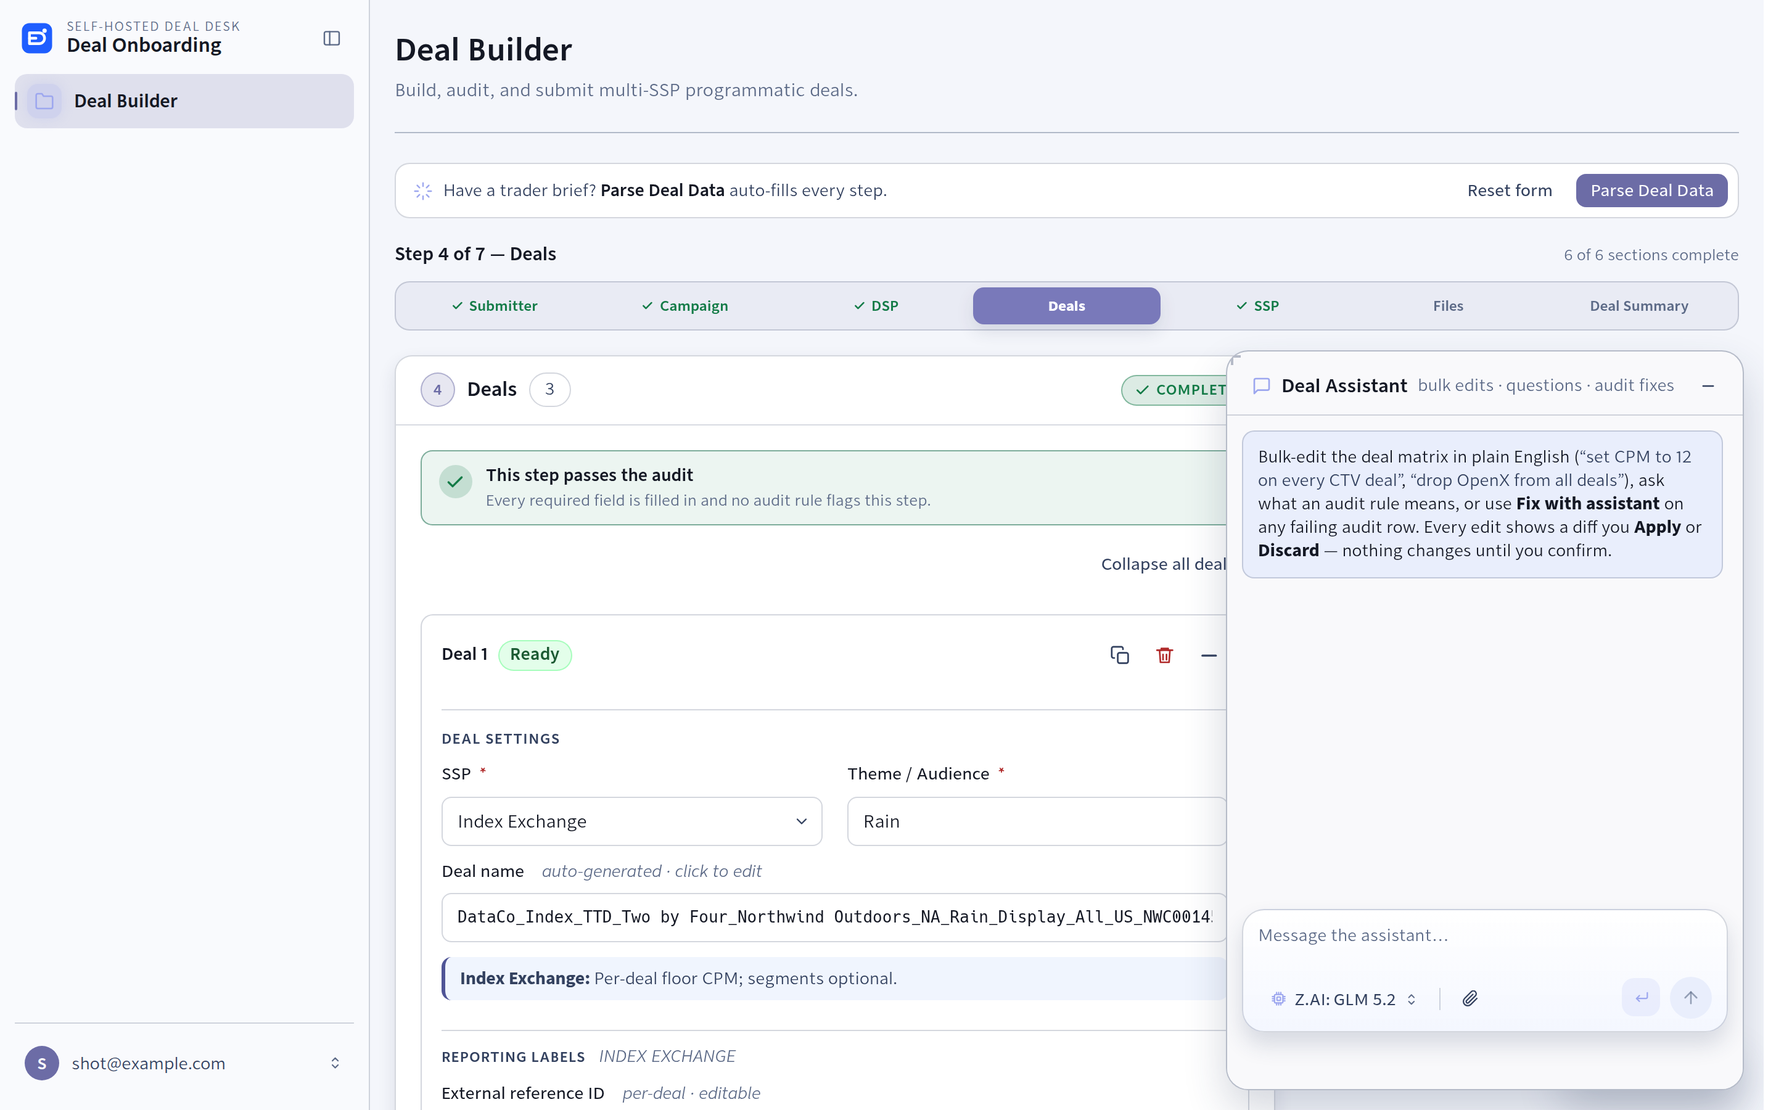
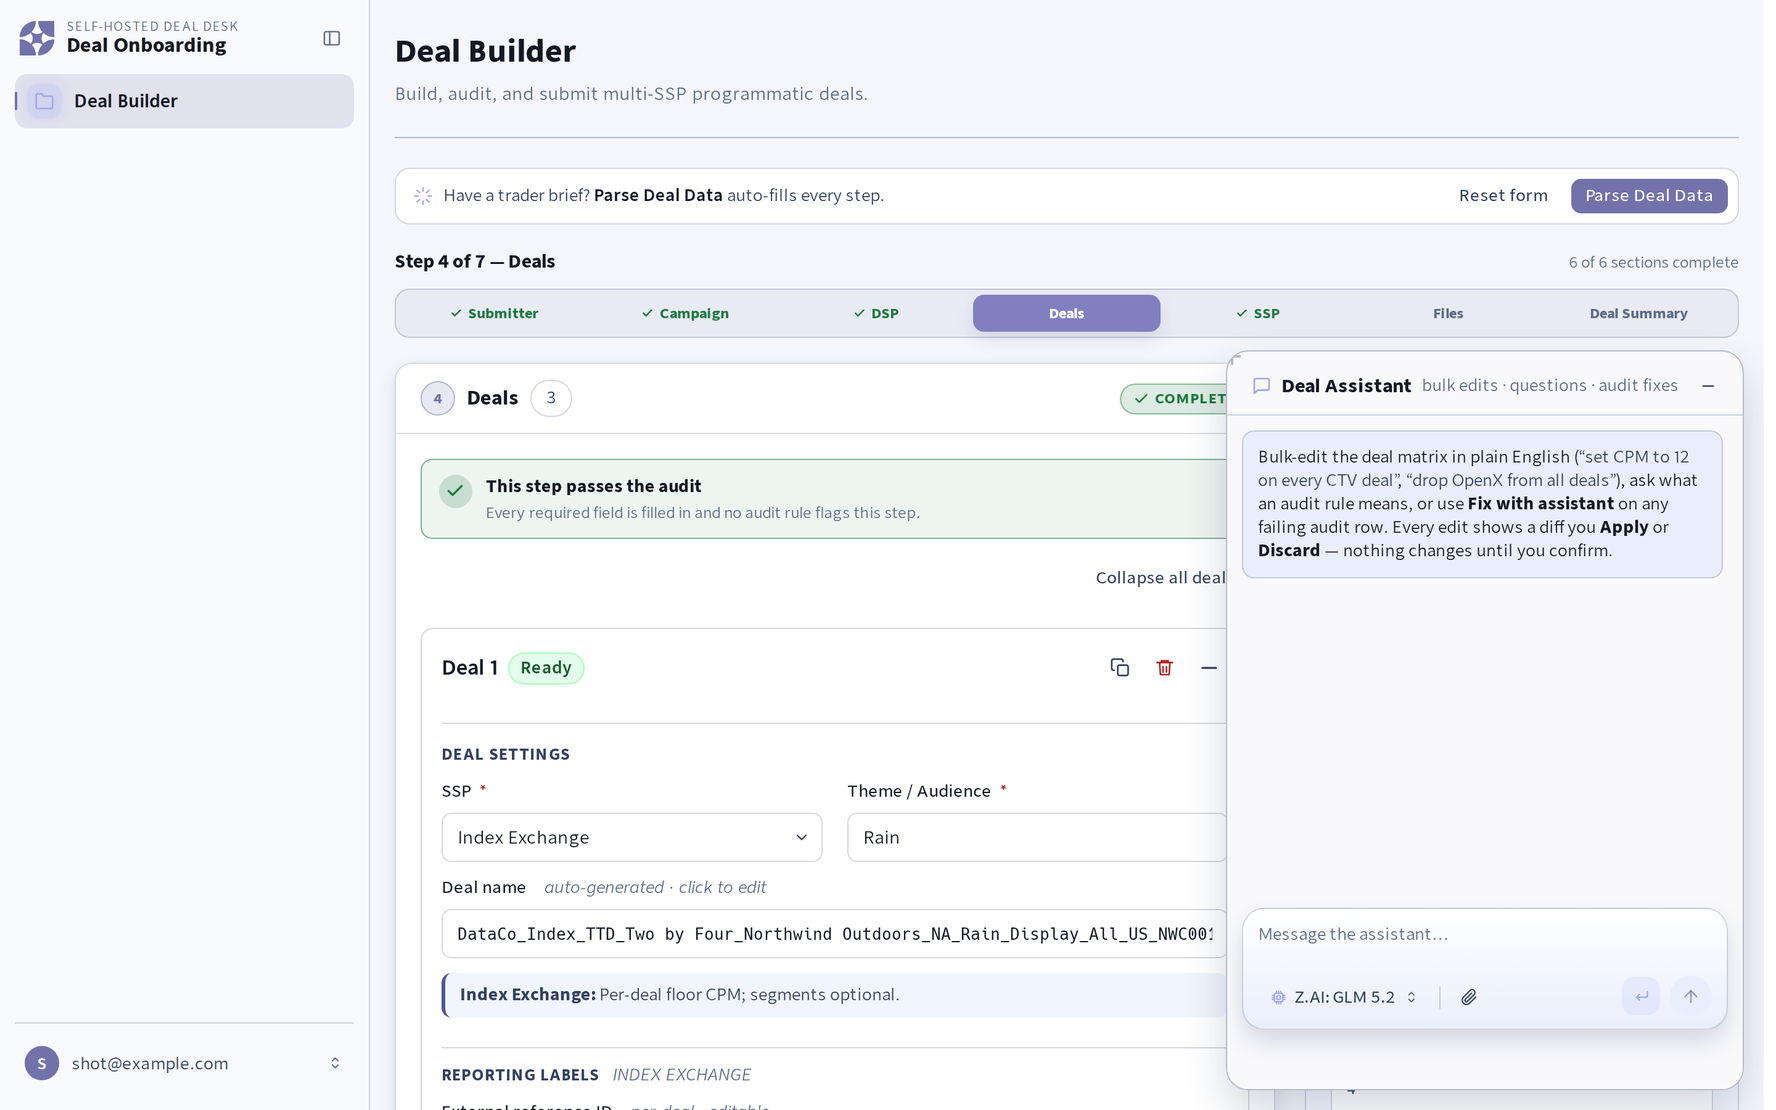
Carry the Elcano mark and the canonical Flag token sheet like the other products
The app shipped a blue generic mark as both favicon and header logo, and a
design-tokens.css that had drifted from Flag: a different primary, different
status colours, a smaller type scale, bold at 600 and no semibold. Every
other Elcano product vendors Flag's sheet byte-for-byte and puts the Elcano
mark in its app header beside the product name.

- Re-vendor design-tokens.css and fonts.css verbatim from Flag. The four
  product-only tokens (rail hover/active, composer surface/shadow) move to a
  PRODUCT TOKENS block at the top of app.css, derived from Flag tokens.
- Lay the static assets out as frontend/public/design-system/{icons,logos}
  mirroring the other repos, add elcano-mark-primary.svg and
  elcano-mark-favicon.svg, and redraw the product favicon in Flag's favicon
  idiom (dark rounded square, white glyph, primary accent) with a light
  variant.
- Side rail, mobile topbar and login card show the Elcano mark with
  alt="Elcano"; the tab title reads "Deal Onboarding — Elcano".
- Regenerate the README screenshots from the new build (synthetic data).

Claude-Session: https://claude.ai/code/session_0134a1k2VyxachcRx8ghEHhJ

diff --git a/frontend/src/styles/design-tokens.css b/frontend/src/styles/design-tokens.css
@@ -2,39 +2,42 @@
   color-scheme: dark;
   --theme-selector-attribute: data-theme;
   --theme-preference-storage-key: flag-theme-preference;
-  /* Brand faces come from ./fonts/fonts.css, which sets --font-brand to
-   * "Nebula Sans" and both code variables to "Hack". The design system ships exactly
-   * two typefaces; no family is named here beyond those variables and the
-   * generic fallbacks after them. Nebula Sans is NOT variable — it ships
-   * real 400/500/600/700 faces, which are exactly the four weights this app
-   * asks for, so nothing here gets a synthetic weight. */
+  /* Brand faces come from fonts/fonts.css, which sets --font-brand to
+   * "Nebula Sans" and both code variables to "Hack". There is exactly one font
+   * sheet and one pair of faces across every Elcano product — see Flag's FONTS.md.
+   * The fallbacks below name the same two faces, so a product that forgets the
+   * sheet degrades to a system stack rather than to a different brand face.
+   * Never name a family in product CSS; always use these tokens. */
   --font-heading: var(--font-brand, "Nebula Sans"), "Segoe UI", system-ui, -apple-system, sans-serif;
   --font-body: var(--font-brand, "Nebula Sans"), "Segoe UI", system-ui, -apple-system, sans-serif;
-  /* --font-code and --font-code-ui are both Hack, kept separate so product
-   * CSS reading --font-code-ui keeps working. */
+  /* One mono serves both code and code-chrome. The variables stay distinct so
+   * product CSS reading --font-code-ui keeps working, but they resolve alike. */
   --font-code: var(--font-code-brand, "Hack"), ui-monospace, "SF Mono", "Consolas", monospace;
   --font-code-ui: var(--font-code-ui-brand, "Hack"), ui-monospace, "SF Mono", "Consolas", monospace;
 
+  /* Only these four weights are shipped as real faces. Anything else is a
+   * synthetic smear — see Flag's FONTS.md before adding a fifth. */
   --font-weight-regular: 400;
   --font-weight-medium: 500;
-  --font-weight-bold: 600;
+  --font-weight-semibold: 600;
+  --font-weight-bold: 700;
 
-  --font-size-display: clamp(1.75rem, 1.5rem + 0.8vw, 2.25rem);
+  --font-size-display: clamp(2rem, 1.75rem + 0.8vw, 2.5rem);
   --line-height-display: 1.15;
-  --font-size-title: 1.5rem;
+  --font-size-title: 1.75rem;
   --line-height-title: 1.2;
-  --font-size-subtitle: 1.05rem;
+  --font-size-subtitle: 1.125rem;
   --line-height-subtitle: 1.3;
-  --font-size-body-lg: 0.9375rem;
+  --font-size-body-lg: 1.0625rem;
   --line-height-body-lg: 1.5;
-  --font-size-body: 0.8125rem;
-  --line-height-body: 1.3847;
+  --font-size-body: 1rem;
+  --line-height-body: 1.5;
   --font-size-caption: 0.8125rem;
   --line-height-caption: 1.4;
-  --font-size-overline: 0.6875rem;
+  --font-size-overline: 0.75rem;
   --line-height-overline: 1.4;
 
-  --color-primary: #6c6ca6;
+  --color-primary: #7272ab;
   --color-primary-hover: #8686c4;
   --color-secondary: #586f7c;
   --color-accent: #9da7ef;
@@ -57,21 +60,12 @@
   --color-overlay-soft: rgba(0, 0, 0, 0.2);
   --color-overlay-strong: rgba(0, 0, 0, 0.4);
 
-  --color-success: #8fe7b8;
-  --color-warning: #e7c98f;
-  --color-danger: #e08080;
+  --color-success: #50fa7b;
+  --color-warning: #ff8847;
+  --color-danger: #ff5555;
   --color-info: #8a8bc0;
   /* Text color used on top of --color-success fills (e.g. success buttons). */
   --color-on-success: var(--color-black);
-
-  /* Side-rail interaction tints (Fleet sidebar grammar) */
-  --rail-hover: rgba(255, 255, 255, 0.07);
-  --rail-active: color-mix(in srgb, var(--color-primary) 18%, transparent);
-
-  /* Chat composer surface — same values as the chat repo's globals.css so
-   * Deal Onboarding's Edit-with-chat input reads identically to the chat product. */
-  --composer-surface: linear-gradient(180deg, rgba(31, 18, 39, 0.94), rgba(24, 13, 31, 0.98));
-  --composer-shadow: 0 18px 48px rgba(0, 0, 0, 0.34);
 
   --color-status-pending-fg: #d3dde6;
   --color-status-pending-bg: rgba(124, 140, 152, 0.2);
@@ -217,14 +211,11 @@ body.theme-light {
   /* Light-mode accent overrides: the dark-theme accents are tuned for dark
    * surfaces and fail WCAG AA as text on white (#ff5555 ≈ 2.9:1). These darker
    * equivalents all reach ≥ 4.5:1 on --color-bg / --color-surface-1/2. */
-  --color-success: #137b47;
-  --color-warning: #8a6116;
-  --color-danger: #b02a2a;
+  --color-success: #1e7a3f;
+  --color-warning: #8f3e10;
+  --color-danger: #b3261e;
   --color-info: #4f5496;
   --color-on-success: var(--color-white);
-  --rail-hover: rgba(38, 55, 92, 0.07);
-  --composer-surface: linear-gradient(180deg, rgba(255, 255, 255, 0.96), rgba(244, 247, 255, 0.98));
-  --composer-shadow: 0 18px 42px rgba(38, 55, 92, 0.16);
 
   --color-status-pending-fg: #33415f;
   --color-status-pending-bg: rgba(124, 140, 152, 0.18);

diff --git a/frontend/src/components/SideNav.tsx b/frontend/src/components/SideNav.tsx
@@ -1,8 +1,11 @@
 import { useCallback, useEffect, useRef, useState } from 'react'
 import type { KeyboardEvent as ReactKeyboardEvent } from 'react'
-import productMark from '../assets/deal-onboarding-mark.svg'
 import { useTheme } from '../hooks/useTheme'
 import type { ThemePreference } from '../hooks/useTheme'
+
+/** The Elcano mark — every Elcano product carries the same mark in its app
+ *  header (Flag `ds-app-header__mark`); the product name sits beside it. */
+const ELCANO_MARK = '/design-system/logos/elcano-mark-primary.svg'
 
 /** Page key used to highlight the active nav item. Mirrors App.tsx Route. */
 export type NavRoute = 'workspace'
@@ -23,7 +26,7 @@ const RAIL_COLLAPSED_KEY = 'deal-onboarding-rail-collapsed'
 const icon = (id: string) => (
   <span className="side-rail__tile" aria-hidden="true">
     <svg className="side-rail__icon" viewBox="0 0 24 24">
-      <use href={`/icons/core-icons.svg#${id}`} />
+      <use href={`/design-system/icons/core-icons.svg#${id}`} />
     </svg>
   </span>
 )
@@ -175,13 +178,13 @@ function AccountMenu({
             onClick={() => { close(); onHelp() }}
           >
             <span className="account-menu__item-icon">
-              <svg viewBox="0 0 24 24" aria-hidden="true"><use href="/icons/core-icons.svg#info" /></svg>
+              <svg viewBox="0 0 24 24" aria-hidden="true"><use href="/design-system/icons/core-icons.svg#info" /></svg>
             </span>
             <span className="account-menu__item-label">Help</span>
           </button>
           <div className="account-menu__theme">
             <svg className="account-menu__theme-icon" viewBox="0 0 24 24" aria-hidden="true">
-              <use href="/icons/core-icons.svg#moon" />
+              <use href="/design-system/icons/core-icons.svg#moon" />
             </svg>
             <span className="account-menu__theme-label">Theme</span>
             {/* menuitemradio-in-group is the ARIA-sanctioned way to embed a
@@ -210,7 +213,7 @@ function AccountMenu({
             onClick={() => { close(); onLogout() }}
           >
             <span className="account-menu__item-icon">
-              <svg viewBox="0 0 24 24" aria-hidden="true"><use href="/icons/core-icons.svg#logout" /></svg>
+              <svg viewBox="0 0 24 24" aria-hidden="true"><use href="/design-system/icons/core-icons.svg#logout" /></svg>
             </span>
             <span className="account-menu__item-label">{loggingOut ? 'Signing out…' : 'Sign out'}</span>
           </button>
@@ -299,7 +302,7 @@ export function SideNav({
       {/* Slim topbar — only rendered below the desktop breakpoint (CSS). */}
       <header className="mobile-topbar">
         <button type="button" className="mobile-topbar__brand" onClick={onNavigateWorkspace} aria-label="Go to the Deal Builder">
-          <img className="mobile-topbar__mark" src={productMark} alt="" />
+          <img className="mobile-topbar__mark" src={ELCANO_MARK} alt="Elcano" />
           <span>Deal Onboarding</span>
         </button>
         <button
@@ -312,7 +315,7 @@ export function SideNav({
           onClick={() => setMobileOpen(true)}
         >
           <svg viewBox="0 0 24 24" aria-hidden="true">
-            <use href="/icons/core-icons.svg#menu" />
+            <use href="/design-system/icons/core-icons.svg#menu" />
           </svg>
         </button>
       </header>
@@ -329,7 +332,7 @@ export function SideNav({
         aria-label="Primary"
       >
         <div className="side-rail__header">
-          <img className="side-rail__mark" src={productMark} alt="" />
+          <img className="side-rail__mark" src={ELCANO_MARK} alt="Elcano" />
           <span className="side-rail__text">
             <span className="side-rail__eyebrow">Self-hosted deal desk</span>
             <span className="side-rail__title">Deal Onboarding</span>

diff --git a/frontend/src/components/DealChat.tsx b/frontend/src/components/DealChat.tsx
@@ -478,7 +478,7 @@ export function DealChat({ form, onFormChange, audit, prefill, resetToken, notic
                 className="chat-composer__chip"
                 title={`${f.name}${f.detectedColumn ? ` · column: ${f.detectedColumn}` : ''}`}
               >
-                <svg viewBox="0 0 24 24" aria-hidden="true"><use href="/icons/core-icons.svg#paperclip" /></svg>
+                <svg viewBox="0 0 24 24" aria-hidden="true"><use href="/design-system/icons/core-icons.svg#paperclip" /></svg>
                 <span className="chat-composer__chip-name">{fileBasename(f.name)}</span>
                 {typeof f.size === 'number' && f.size > 0 && (
                   <span className="chat-composer__chip-size">{formatBytes(f.size)}</span>
@@ -525,7 +525,7 @@ export function DealChat({ form, onFormChange, audit, prefill, resetToken, notic
             >
               {uploading
                 ? <span className="btn-spinner" aria-hidden="true" />
-                : <svg viewBox="0 0 24 24" aria-hidden="true"><use href="/icons/core-icons.svg#paperclip" /></svg>}
+                : <svg viewBox="0 0 24 24" aria-hidden="true"><use href="/design-system/icons/core-icons.svg#paperclip" /></svg>}
             </button>
           </div>
           <div className="chat-composer__actions">
@@ -542,7 +542,7 @@ export function DealChat({ form, onFormChange, audit, prefill, resetToken, notic
               aria-pressed={sendOnEnter}
               onClick={toggleSendOnEnter}
             >
-              <svg viewBox="0 0 24 24" aria-hidden="true"><use href="/icons/core-icons.svg#return-key" /></svg>
+              <svg viewBox="0 0 24 24" aria-hidden="true"><use href="/design-system/icons/core-icons.svg#return-key" /></svg>
             </button>
             <button
               type="submit"
@@ -553,7 +553,7 @@ export function DealChat({ form, onFormChange, audit, prefill, resetToken, notic
             >
               {uploading
                 ? <span aria-hidden="true">…</span>
-                : <svg viewBox="0 0 24 24" aria-hidden="true"><use href="/icons/core-icons.svg#arrow-up" /></svg>}
+                : <svg viewBox="0 0 24 24" aria-hidden="true"><use href="/design-system/icons/core-icons.svg#arrow-up" /></svg>}
             </button>
           </div>
         </div>

diff --git a/frontend/src/styles/fonts/fonts.css b/frontend/src/styles/fonts/fonts.css
@@ -1,11 +1,6 @@
 /* Flag brand faces — the ONE font sheet. Load this and nothing else.
  *
- * VENDORED COPY of flag/design-system/fonts/fonts.css (ElcanoTek/flag), kept
- * in-repo so production builds never depend on a sibling checkout. To refresh
- * it, re-copy this file plus ./nebula-sans/ and ./hack/ from flag — licence
- * files included — and keep the url() paths relative as they are here.
- *
- * The design system ships exactly two typefaces, everywhere, in every product:
+ * Elcano ships exactly two typefaces, everywhere, in every product:
  *
  *   Nebula Sans  — UI, body, headings          (--font-brand)
  *   Hack         — code, logs, tabular output  (--font-code-brand)
@@ -31,8 +26,9 @@
  * Both licences REQUIRE the licence text to travel with the binaries. Copy
  * ./nebula-sans/OFL.txt and ./hack/LICENSE.md wherever you copy the fonts.
  *
- * See flag's design-system/FONTS.md for the policy and TOKENS.md for the
- * type scale.
+ * Vendored from the Flag design system (ElcanoTek/flag, design-system/fonts).
+ * Re-sync from there rather than editing in place; FONTS.md and TOKENS.md in
+ * that repo carry the font policy and the type scale.
  */
 
 /* ── Nebula Sans ─────────────────────────────────────────────────────────
@@ -95,7 +91,7 @@
  *
  * These are the FULL builds (1548 codepoints, incl. Greek and Cyrillic), not
  * the `-subset` files also present in the upstream package (386 codepoints,
- * no Greek or Cyrillic). See flag's FONTS.md "Font files must be complete".
+ * no Greek or Cyrillic). See Flag's FONTS.md "Font files must be complete".
  */
 
 @font-face {

diff --git a/frontend/src/styles/app.css b/frontend/src/styles/app.css
@@ -8,6 +8,27 @@
 @import 'flatpickr/dist/flatpickr.min.css';
 
 /* ============================================================
+   PRODUCT TOKENS
+   design-tokens.css is the Flag sheet, vendored byte-for-byte and never
+   edited here. The few tokens Deal Onboarding needs beyond it live in this
+   block, derived from Flag tokens so they follow the theme.
+   ============================================================ */
+:root {
+  /* Side-rail interaction tints (Fleet sidebar grammar). */
+  --rail-hover: rgba(255, 255, 255, 0.07);
+  --rail-active: color-mix(in srgb, var(--color-primary) 18%, transparent);
+
+  /* Deal Assistant composer surface — a lifted panel over the shell. */
+  --composer-surface: linear-gradient(180deg, color-mix(in srgb, var(--color-surface-1) 94%, transparent), color-mix(in srgb, var(--color-bg) 98%, transparent));
+  --composer-shadow: var(--shadow-lg);
+}
+
+:root[data-theme="light"] {
+  --rail-hover: rgba(38, 55, 92, 0.07);
+  --composer-surface: linear-gradient(180deg, color-mix(in srgb, var(--color-surface-1) 96%, transparent), color-mix(in srgb, var(--color-surface-2) 98%, transparent));
+}
+
+/* ============================================================
    RESET & BASE
    ============================================================ */
 *, *::before, *::after {

diff --git a/frontend/src/App.tsx b/frontend/src/App.tsx
@@ -1,6 +1,5 @@
 import { Component, lazy, Suspense, useEffect, useRef, useState } from 'react'
 import type { FormEvent, ReactNode } from 'react'
-import productMark from './assets/deal-onboarding-mark.svg'
 import { ThemeToggle } from './components/ThemeToggle'
 import { SideNav } from './components/SideNav'
 
@@ -8,6 +7,8 @@ import { SideNav } from './components/SideNav'
 const DealBuilder = lazy(() => import('./components/DealBuilder').then(m => ({ default: m.DealBuilder })))
 
 const PRODUCT_NAME = 'Deal Onboarding'
+/** The Elcano mark (Flag design system) — shared by every Elcano product. */
+const ELCANO_MARK = '/design-system/logos/elcano-mark-primary.svg'
 
 type Session = { email: string }
 type Route = '/' | '/login' | '/help'
@@ -85,7 +86,7 @@ function LoginPage({ error, pending, onLogin, onHelp }: LoginPageProps) {
       <section className="auth-card">
         <div className="auth-card__header">
           <div className="auth-brand">
-            <img className="auth-brand__mark" src={productMark} alt="" />
+            <img className="auth-brand__mark" src={ELCANO_MARK} alt="Elcano" />
             <div>
               <p className="auth-eyebrow">Self-hosted deal desk</p>
               <h1 className="auth-title">Welcome to {PRODUCT_NAME}</h1>

diff --git a/frontend/src/components/DealsList.tsx b/frontend/src/components/DealsList.tsx
@@ -1187,7 +1187,7 @@ export function DealsList({ form, update, open, onToggle, filled, total, issues,
               title="Duplicate this deal"
               onClick={() => duplicateDeal(deal.id)}
             >
-              <svg viewBox="0 0 24 24" className="deal-card__action-icon" aria-hidden="true"><use href="/icons/core-icons.svg#copy" /></svg>
+              <svg viewBox="0 0 24 24" className="deal-card__action-icon" aria-hidden="true"><use href="/design-system/icons/core-icons.svg#copy" /></svg>
             </button>
             <button
               type="button"
@@ -1196,7 +1196,7 @@ export function DealsList({ form, update, open, onToggle, filled, total, issues,
               title="Remove this deal"
               onClick={() => requestRemoveDeal(deal)}
             >
-              <svg viewBox="0 0 24 24" className="deal-card__action-icon" aria-hidden="true"><use href="/icons/core-icons.svg#trash" /></svg>
+              <svg viewBox="0 0 24 24" className="deal-card__action-icon" aria-hidden="true"><use href="/design-system/icons/core-icons.svg#trash" /></svg>
             </button>
             <button
               type="button"

diff --git a/frontend/src/components/DealParserModal.tsx b/frontend/src/components/DealParserModal.tsx
@@ -206,7 +206,7 @@ export function DealParserModal({ currentForm, onClose, onApply, onError, defaul
                 onClick={() => fileInputRef.current?.click()}
                 disabled={busy}
               >
-                <svg viewBox="0 0 24 24" aria-hidden="true"><use href="/icons/core-icons.svg#paperclip" /></svg>
+                <svg viewBox="0 0 24 24" aria-hidden="true"><use href="/design-system/icons/core-icons.svg#paperclip" /></svg>
               </button>
               {fileName && <span className="parser-attach-name">Loaded: {fileName}</span>}
             </div>
@@ -221,7 +221,7 @@ export function DealParserModal({ currentForm, onClose, onApply, onError, defaul
               >
                 {busy
                   ? <span className="btn-spinner" aria-hidden="true" />
-                  : <svg viewBox="0 0 24 24" aria-hidden="true"><use href="/icons/core-icons.svg#arrow-up" /></svg>}
+                  : <svg viewBox="0 0 24 24" aria-hidden="true"><use href="/design-system/icons/core-icons.svg#arrow-up" /></svg>}
               </button>
             </div>
           </div>

diff --git a/frontend/src/components/ChatModelPicker.tsx b/frontend/src/components/ChatModelPicker.tsx
@@ -183,9 +183,9 @@ export function ChatModelPicker({ value, onPick, disabled, serverDefaultOption }
           else openPicker()
         }}
       >
-        <svg className="chat-model__icon" viewBox="0 0 24 24" aria-hidden="true"><use href="/icons/core-icons.svg#model" /></svg>
+        <svg className="chat-model__icon" viewBox="0 0 24 24" aria-hidden="true"><use href="/design-system/icons/core-icons.svg#model" /></svg>
         <span className="chat-model__label">{label}</span>
-        <svg className="chat-model__caret" viewBox="0 0 24 24" aria-hidden="true"><use href="/icons/core-icons.svg#selector" /></svg>
+        <svg className="chat-model__caret" viewBox="0 0 24 24" aria-hidden="true"><use href="/design-system/icons/core-icons.svg#selector" /></svg>
       </button>
       {open && !disabled && (
         <div className="chat-model__pop" style={popPos?.style}>

diff --git a/frontend/src/components/ThemeToggle.tsx b/frontend/src/components/ThemeToggle.tsx
@@ -15,10 +15,10 @@ export function ThemeToggle() {
     >
       <span className="theme-toggle__icon-wrap" aria-hidden="true">
         <svg className="icon-inline theme-toggle__icon theme-toggle__icon--sun" aria-hidden="true">
-          <use href="/icons/core-icons.svg#sun" />
+          <use href="/design-system/icons/core-icons.svg#sun" />
         </svg>
         <svg className="icon-inline theme-toggle__icon theme-toggle__icon--moon" aria-hidden="true">
-          <use href="/icons/core-icons.svg#moon" />
+          <use href="/design-system/icons/core-icons.svg#moon" />
         </svg>
       </span>
     </button>

diff --git a/frontend/index.html b/frontend/index.html
@@ -4,8 +4,8 @@
   <meta charset="UTF-8" />
   <meta name="viewport" content="width=device-width, initial-scale=1.0" />
   <meta name="color-scheme" content="light dark" />
-  <link rel="icon" type="image/svg+xml" href="/icons/deal-onboarding-favicon.svg" />
-  <title>Deal Onboarding</title>
+  <link rel="icon" type="image/svg+xml" href="/design-system/logos/deal-onboarding-favicon.svg" />
+  <title>Deal Onboarding — Elcano</title>
   <!-- Prevent flash of wrong theme -->
   <script>
     (function () {

diff --git a/frontend/src/components/DatePickerField.tsx b/frontend/src/components/DatePickerField.tsx
@@ -85,7 +85,7 @@ export function DatePickerField({ id, value, onChange, minDate, invalid }: Props
         aria-invalid={invalid ? true : undefined}
       />
       <svg className="date-input-icon" aria-hidden="true">
-        <use href="/icons/core-icons.svg#calendar" />
+        <use href="/design-system/icons/core-icons.svg#calendar" />
       </svg>
     </div>
   )
